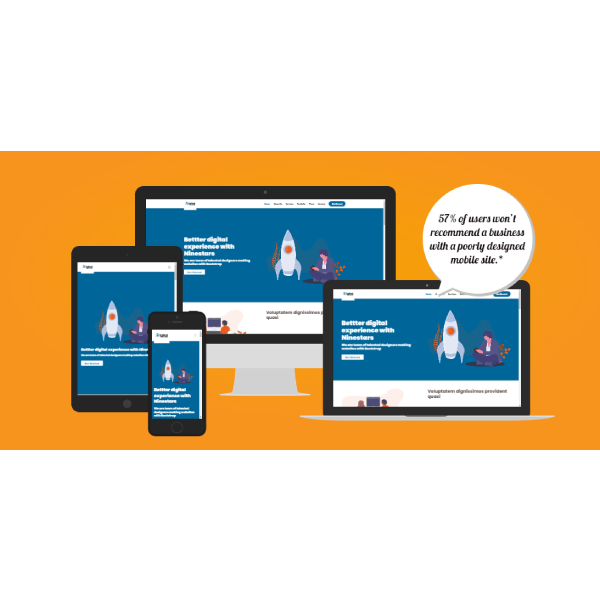
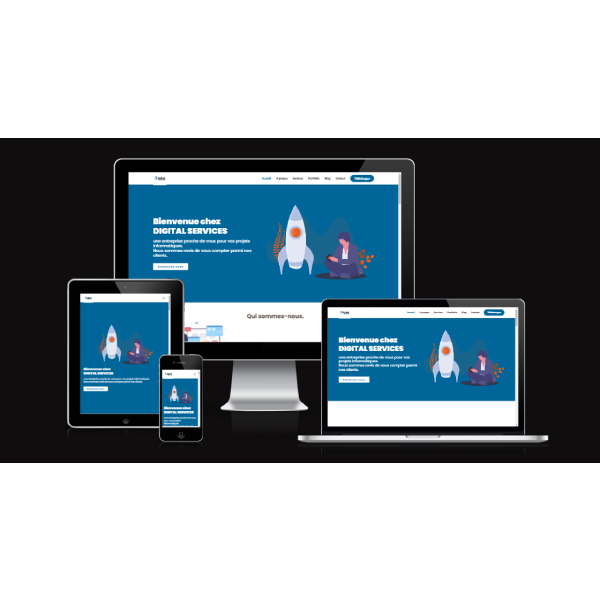
correction

diff --git a/resources/views/welcome.blade.php b/resources/views/welcome.blade.php
@@ -9,7 +9,15 @@
   <title>Digital Services</title>
   <meta content="Digital services" name="description">
   <meta content="Digital services" name="keywords">
+   <!-- Google tag (gtag.js) -->
+<script async src="https://www.googletagmanager.com/gtag/js?id=G-7R1YNV7KTM"></script>
+<script>
+  window.dataLayer = window.dataLayer || [];
+  function gtag(){dataLayer.push(arguments);}
+  gtag('js', new Date());
 
+  gtag('config', 'G-7R1YNV7KTM');
+</script>
   <!-- Favicons -->
   <link href="assets/img/logo.jpg" rel="icon">
   <link href="assets/img/logo.jpg" rel="apple-touch-icon">
@@ -54,7 +62,7 @@
           <li style="font-weight: 900" ><a   class="nav-link scrollto active" href="#hero">Accueil</a></li>
           <li style="font-weight: 900" ><a   class="nav-link scrollto" href="#about">A propos</a></li>
           <li style="font-weight: 900" ><a   class="nav-link scrollto" href="#services">Services</a></li>
-          <li style="font-weight: 900" ><a   class="nav-link scrollto" href="#portfolio">Portfolio</a></li>
+          <li style="font-weight: 900" ><a   class="nav-link scrollto" href="#portfolio">Nos produits</a></li>
           <li style="font-weight: 900" ><a   class="nav-link scrollto" href="#team">Blog</a></li>
 
           <li style="font-weight: 900"><a class="nav-link scrollto" href="#contact">Contact</a></li>
@@ -91,25 +99,35 @@
     <!-- ======= About Section ======= -->
     <section id="about" class="about">
       <div class="container">
+
+
+
+
           <div class="row">
-            <div class="col-lg-5 d-flex align-items-center justify-content-center about-img">
+
+             <div class="col-lg-5 d-flex align-items-center justify-content-center about-img">
                 <img src="assets/img/b2.jpg" class="img-fluid" alt="" data-aos="zoom-in">
               </div>
-              <div class="col-lg-6  pt-lg-0">
-                <h3 data-aos="fade-up">Qui sommes-nous.</h3>
-                <p style="color: black ;font-weight: 300 ;font-size: 16px" data-aos="fade-up" data-aos-delay="100">
-                    Digital services est une entreprise spécialisée dans le développement des projets informatiques. Elle apporte des solutions informatiques aux entrepreneurs et les aide à mieux se positionner sur le marché. Digital Services c’est plus de compétences et de professionnalisme. Nous travaillons depuis nos débuts avec des valeurs d’intégrité et de confiance.
-                    <br>
-                    Nous fournissons depuis notre création des prestations en création et gestion de sites internet, la création et le développement d’applications mobile et web ; la conception des logiciels de gestion ; les services en infographie ; la maintenance informatique et la communication digitale.
-                    Nous mettons nos clients et nos partenaires au centre de nos projets et nous définissons nos objectifs d’après nos engagements réciproques.
-                    Nos experts s’assurent toujours du temps de livraison et de la qualité des rendus.
 
-                </p>
-                </div>
+              <div class="col-lg-6  pt-lg-0">
+                        <h3 data-aos="fade-up">Qui sommes-nous.</h3>
+                        <p style="color: black ;font-weight: 300 ;font-size: 18px" data-aos="fade-up" data-aos-delay="100">
+                            DIGITAL SERVICES est une entreprise spécialisée dans les prestations de services informatiques, offrant une expertise de pointe en matière de maintenance et de services illimités
+
+                            Un partenaire fiable et performant pour tous vos projets informatiques.
+                            <br>
+                        </p>
+
+                      <div>
+
+                    </div>
+
+              </div>
           </div>
+
           <div class="row">
             <div class="col-lg-5 d-flex align-items-center justify-content-center about-img">
-                <img src="assets/img/b3.jpg" class="img-fluid" alt="" data-aos="zoom-in">
+                <img src="assets/img/b3.jpg" class="img-fluid"  alt="" data-aos="zoom-in">
               </div>
               <div class="col-lg-6  pt-lg-0">
                 <div class="row">
@@ -147,23 +165,7 @@
                     </div>
                   </div>
                 </div>
-
           </div>
-        {{-- <div class="row justify-content-between">
-
-          <div class="col-lg-6  pt-lg-0">
-            <h3 data-aos="fade-up">Qui sommes-nous.</h3>
-            <p style="color: black ;font-weight: 300 ;font-size: 18px" data-aos="fade-up" data-aos-delay="100">
-                Digital services est une entreprise spécialisée dans le développement des projets informatiques. Elle apporte des solutions informatiques aux entrepreneurs et les aide à mieux se positionner sur le marché. Digital Services c’est plus de compétences et de professionnalisme. Nous travaillons depuis nos débuts avec des valeurs d’intégrité et de confiance.
-                <br>
-                Nous fournissons depuis notre création des prestations en création et gestion de sites internet, la création et le développement d’applications mobile et web ; la conception des logiciels de gestion ; les services en infographie ; la maintenance informatique et la communication digitale.
-                Nous mettons nos clients et nos partenaires au centre de nos projets et nous définissons nos objectifs d’après nos engagements réciproques.
-                Nos experts s’assurent toujours du temps de livraison et de la qualité des rendus.
-
-            </p>
-
-          </div>
-        </div> --}}
 
       </div>
     </section><!-- End About Section -->
@@ -223,7 +225,7 @@
       <div class="container" data-aos="fade-up">
 
         <div class="section-title">
-          <h2 style="font-weight: 900;color: black  " >Portfolio</h2>
+          <h2 style="font-weight: 900;color: black  " >Nos produits</h2>
           {{-- <p>Check out our beautifull portfolio</p> --}}
         </div>
 
@@ -242,45 +244,47 @@
 
           <div class="col-lg-4 col-md-6 portfolio-item filter-app">
             <div class="portfolio-wrap">
-              <img src="assets/img/portfolio/digital.jpeg" class="img-fluid" alt="">
-              <div class="portfolio-links">
-                <a href="assets/img/portfolio/digital.jpeg" data-gallery="portfolioGallery" class="portfolio-lightbox" title="App 1"><i class="bi bi-plus"></i></a>
-                <a href="portfolio-details.html" title="More Details"><i class="bi bi-link"></i></a>
-              </div>
-              <div class="portfolio-info">
-                <h4>App 1</h4>
-                <p>App</p>
-              </div>
-            </div>
+                <img src="assets/img/portfolio/digital.jpeg" class="img-fluid img-thumbnail" alt="">
+                <div class="portfolio-links">
+                    <a href="assets/img/portfolio/digital.jpeg" data-gallery="portfolioGallery" class="portfolio-lightbox" title="App 1"><i class="bi bi-plus"></i></a>
+                    {{-- <a href="portfolio-details.html" title="More Details"><i class="bi bi-link"></i></a> --}}
+                </div>
+                <div class="portfolio-info">
+                    {{-- <h4>App 1</h4>
+                    <p>App</p> --}}
+                </div>
+                </div>
           </div>
+
+                <div class="col-lg-4 col-md-6 portfolio-item filter-app">
+                    <div class="portfolio-wrap">
+                    <img src="assets/img/portfolio/portfolo-4.jpg" class="img-fluid  img-thumbnail" alt="">
+                    <div class="portfolio-links">
+                        <a href="assets/img/portfolio/portfolo-4.jpg" data-gallery="portfolioGallery" class="portfolio-lightbox" title="App 2"><i class="bi bi-plus"></i></a>
+                        {{-- <a href="portfolio-details.html" title="More Details"><i class="bi bi-link"></i></a> --}}
+                    </div>
+                    <div class="portfolio-info">
+                        {{-- <h4>App 2</h4>
+                        <p>App</p> --}}
+                    </div>
+                    </div>
+                </div>
 
           <div class="col-lg-4 col-md-6 portfolio-item filter-web">
             <div class="portfolio-wrap">
-              <img src="assets/img/portfolio/tiket.jpeg" class="img-fluid" alt="">
+              <img src="assets/img/portfolio/tiket.jpeg" class="img-fluid img-thumbnail" alt="">
               <div class="portfolio-links">
                 <a href="assets/img/portfolio/tiket.jpeg" data-gallery="portfolioGallery" class="portfolio-lightbox" title="Web 3"><i class="bi bi-plus"></i></a>
-                <a href="portfolio-details.html" title="More Details"><i class="bi bi-link"></i></a>
+                {{-- <a href="portfolio-details.html" title="More Details"><i class="bi bi-link"></i></a> --}}
               </div>
               <div class="portfolio-info">
-                <h4>Web 3</h4>
-                <p>Web</p>
+                {{-- <h4>Web 3</h4>
+                <p>Web</p> --}}
               </div>
             </div>
           </div>
 
-          <div class="col-lg-4 col-md-6 portfolio-item filter-app">
-            <div class="portfolio-wrap">
-              <img src="assets/img/portfolio/portfolo-4.png" class="img-fluid" alt="">
-              <div class="portfolio-links">
-                <a href="assets/img/portfolio/portfolo-4.png" data-gallery="portfolioGallery" class="portfolio-lightbox" title="App 2"><i class="bi bi-plus"></i></a>
-                <a href="portfolio-details.html" title="More Details"><i class="bi bi-link"></i></a>
-              </div>
-              <div class="portfolio-info">
-                <h4>App 2</h4>
-                <p>App</p>
-              </div>
-            </div>
-          </div>
+
 
         </div>
 
@@ -292,7 +296,8 @@
       <div class="container" data-aos="fade-up">
 
         <div class="section-title" >
-          <h2 style="color:white" >Télécharger notre application</h2>
+          <h2 style="color:white" >Téléchargez</h2>
+          <br>
           <p  style="color:white" >Nous vous invitons à télécharger notre application pour profiter de tous les avantages qu'elle offre.</p>
            <div >
                <a href="">
@@ -317,17 +322,17 @@
 
           <div class="col-xl-3 col-lg-4 col-md-6" data-aos="zoom-in" data-aos-delay="100">
             <div class="member">
-              <img src="assets/img/team/team-1.png" class="img-fluid" alt="">
+              <img src="assets/img/team/team-1.png" class="img-fluid img-thumbnail" alt="">
               <div class="member-info">
                 <div class="member-info-content">
-                  <h4>Walter White</h4>
-                  <span>Chief Executive Officer</span>
+                  {{-- <h4>Walter White</h4>
+                  <span>Chief Executive Officer</span> --}}
                 </div>
                 <div class="social">
-                  <a href=""><i class="bi bi-twitter"></i></a>
+                  {{-- <a href=""><i class="bi bi-twitter"></i></a>
                   <a href=""><i class="bi bi-facebook"></i></a>
                   <a href=""><i class="bi bi-instagram"></i></a>
-                  <a href=""><i class="bi bi-linkedin"></i></a>
+                  <a href=""><i class="bi bi-linkedin"></i></a> --}}
                 </div>
               </div>
             </div>
@@ -335,17 +340,17 @@
 
           <div class="col-xl-3 col-lg-4 col-md-6" data-aos="zoom-in" data-aos-delay="200">
             <div class="member">
-              <img src="assets/img/team/team-2.png" class="img-fluid" alt="">
+              <img src="assets/img/team/team-2.png" class="img-fluid img-thumbnail " alt="">
               <div class="member-info">
                 <div class="member-info-content">
-                  <h4>Sarah Jhonson</h4>
-                  <span>Product Manager</span>
+                  {{-- <h4>Sarah Jhonson</h4>
+                  <span>Product Manager</span> --}}
                 </div>
                 <div class="social">
-                  <a href=""><i class="bi bi-twitter"></i></a>
+                  {{-- <a href=""><i class="bi bi-twitter"></i></a>
                   <a href=""><i class="bi bi-facebook"></i></a>
                   <a href=""><i class="bi bi-instagram"></i></a>
-                  <a href=""><i class="bi bi-linkedin"></i></a>
+                  <a href=""><i class="bi bi-linkedin"></i></a> --}}
                 </div>
               </div>
             </div>
@@ -353,36 +358,36 @@
 
           <div class="col-xl-3 col-lg-4 col-md-6" data-aos="zoom-in" data-aos-delay="300">
             <div class="member">
-              <img src="assets/img/team/team-3.png" class="img-fluid" alt="">
+              <img src="assets/img/team/team-3.png" class="img-fluid  img-thumbnail " alt="">
               <div class="member-info">
                 <div class="member-info-content">
-                  <h4>William Anderson</h4>
-                  <span>CTO</span>
+                  {{-- <h4>William Anderson</h4>
+                  <span>CTO</span> --}}
                 </div>
-                <div class="social">
+                {{-- <div class="social">
                   <a href=""><i class="bi bi-twitter"></i></a>
                   <a href=""><i class="bi bi-facebook"></i></a>
                   <a href=""><i class="bi bi-instagram"></i></a>
                   <a href=""><i class="bi bi-linkedin"></i></a>
-                </div>
+                </div> --}}
               </div>
             </div>
           </div>
 
           <div class="col-xl-3 col-lg-4 col-md-6" data-aos="zoom-in" data-aos-delay="400">
             <div class="member">
-              <img src="assets/img/team/team-4.png" class="img-fluid" alt="">
+              <img src="assets/img/team/team-4.png" class="img-fluid  img-thumbnail " alt="">
               <div class="member-info">
                 <div class="member-info-content">
-                  <h4>Amanda Jepson</h4>
-                  <span>Accountant</span>
+                  {{-- <h4>Amanda Jepson</h4>
+                  <span>Accountant</span> --}}
                 </div>
-                <div class="social">
+                {{-- <div class="social">
                   <a href=""><i class="bi bi-twitter"></i></a>
                   <a href=""><i class="bi bi-facebook"></i></a>
                   <a href=""><i class="bi bi-instagram"></i></a>
                   <a href=""><i class="bi bi-linkedin"></i></a>
-                </div>
+                </div> --}}
               </div>
             </div>
           </div>
@@ -428,27 +433,27 @@
             <div class="info">
               <div class="address">
                 <i class="bi bi-geo-alt"></i>
-                <h4 style="font-weight: 500 ;color: black " >Adresse:</h4>
+                <h4 style="font-weight: 200 ;color: black " >Adresse:</h4>
                 <p >Lomé-TOGO Aného Togokome</p>
               </div>
 
               <div class="email">
                 <i class="bi bi-envelope"></i>
-                <h4 style="font-weight: 500 ;color: black ">Email:</h4>
-                <p>info@example.com</p>
+                <h4 style="font-weight: 200 ;color: black ">Email:</h4>
+                <p>info@digital-services-home.com</p>
               </div>
 
               <div class="phone">
                 <i class="bi bi-phone"></i>
-                <h4 style="font-weight: 500 ;color: black ">Téléphone:</h4>
-                <p>+1 5589 55488 55s</p>
+                <h4 style="font-weight: 200 ;color: black ">Téléphone:</h4>
+                <p>+228 92 21 25  30</p>
               </div>
             </div>
 
           </div>
 
           <div class="col-lg-7 mt-5 mt-lg-0 d-flex align-items-stretch" data-aos="fade-up" data-aos-delay="200">
-            <form action="#" method="post" role="form" class="php-email-form">
+            <form  role="form" class="php-email-form">
               <div class="row">
                 <div class="form-group col-md-6">
                   <label style="font-weight: 300 ;color: black " for="name">Nom</label>
@@ -506,8 +511,8 @@
             <p>
               Lomé-TOGO <br>
                Aného Togokome<br>
-              <strong>Téléphone:</strong> +1 5589 55488 55<br>
-              <strong>E-mail:</strong> info@example.com<br>
+              <strong>Téléphone:</strong> +228 92 21 25  30<br>
+              <strong>E-mail:</strong>info@digital-services-home.com<br>
             </p>
           </div>
 
